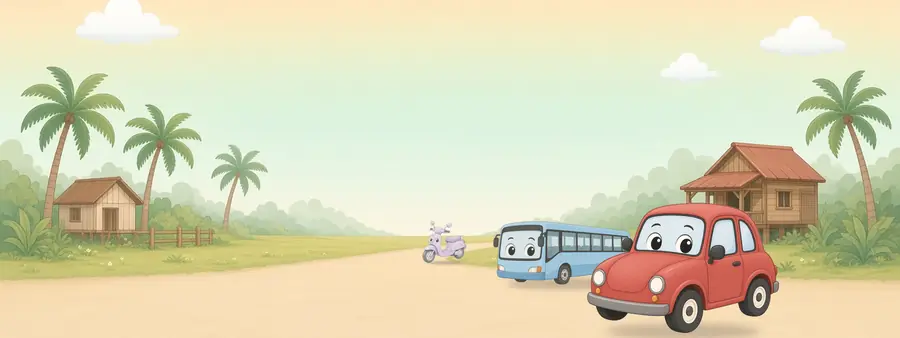
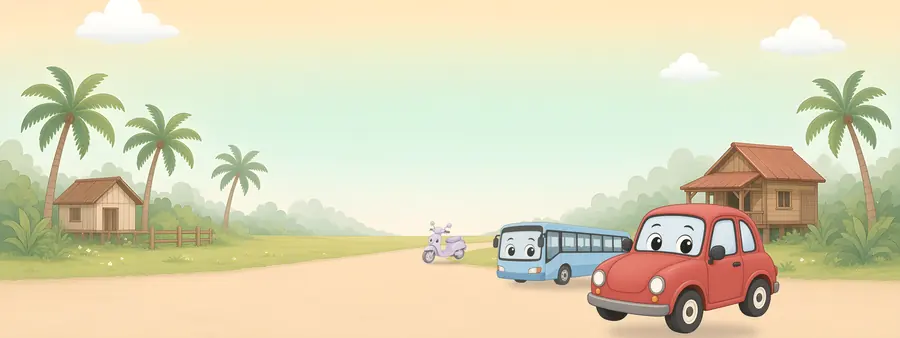
Toddlers door: Sylphy's final art (3200/1600/900 desktop WebP steps, fixed 800 phone scene); tighter phone panel so the scooter shows

diff --git a/index.html b/index.html
@@ -40,7 +40,7 @@
 <!-- TODDLERS DOOR (draft, Sylphy's art): rounded banner, separate from the arcade cards. No ad slots, no arcade covers, no JS. Art is lazy-loaded WebP. -->
 <section class="wrap toddlers" aria-labelledby="lr-h">
 <div class="tbanner">
-<picture><source media="(min-width:700px)" srcset="/img/toddlers-door-desktop-900.webp 900w, /img/toddlers-door-desktop.webp 1600w" sizes="(min-width:1140px) 1100px, 96vw" width="1600" height="600">
+<picture><source media="(min-width:700px)" srcset="/img/toddlers-door-desktop-900.webp 900w, /img/toddlers-door-desktop-1600.webp 1600w, /img/toddlers-door-desktop-3200.webp 3200w" sizes="(min-width:1140px) 1100px, 96vw" width="1600" height="600">
 <img src="/img/toddlers-door-mobile.webp" alt="A cheerful red car and a blue bus on a sandy path through a Malaysian kampung with wooden houses and palm trees" width="800" height="800" loading="lazy" decoding="async"></picture>
 <div class="tpanel"><h2 id="lr-h"><span class="t1">For little ones</span><span class="t2" lang="ms">Untuk si kecil</span></h2>
 <p>Little Racers: calm car games for ages 2&ndash;5. No ads, no trackers.</p>

diff --git a/site.css b/site.css
@@ -78,12 +78,15 @@ h2{font-size:clamp(26px,4vw,34px);font-weight:800}
 .tparents:hover,.tparents:focus-visible{color:var(--t-bm)}
 @media (max-width:699px){
  .tbanner{border-radius:22px}
- .tpanel{left:50%;top:2.5%;transform:translateX(-50%);width:92%;text-align:center;padding:12px 14px 14px}
- .tpanel .t1{font-size:clamp(26px,8.2vw,36px)}.tpanel .t2{font-size:clamp(18px,5.4vw,24px)}
- .tpanel p{font-size:13.5px;margin:4px 0 8px}
- .tbtn{font-size:18px;padding:7px 24px}
- .tparents{margin:8px auto 0}
+ .tpanel{left:50%;top:2%;transform:translateX(-50%);width:92%;text-align:center;padding:9px 12px 10px}
+ .tpanel .t1{font-size:clamp(24px,7.4vw,32px)}.tpanel .t2{font-size:clamp(16px,4.8vw,20px);margin-top:2px}
+ .tpanel p{font-size:13px;line-height:1.3;margin:3px 0 7px}
+ .tbtn{font-size:17px;padding:6px 22px}
+ .tparents{margin:6px auto 0;font-size:14px}
 }
+@media (max-width:380px){.tpanel{padding:7px 10px 8px}.tpanel p{font-size:12px;margin:2px 0 5px}.tbtn{padding:5px 20px;font-size:16px}.tparents{margin-top:4px;font-size:13px}}
+
+
 
 /* inner pages */
 .page{padding-top:30px;padding-bottom:40px;max-width:860px}
